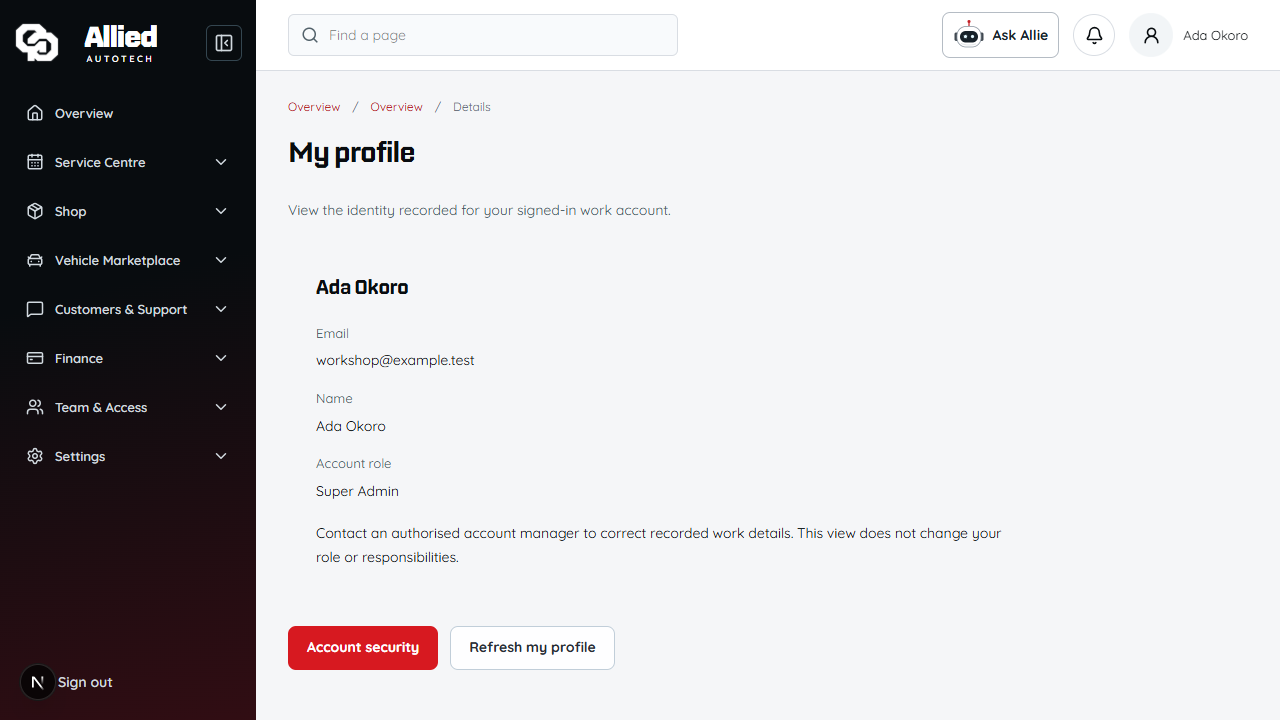
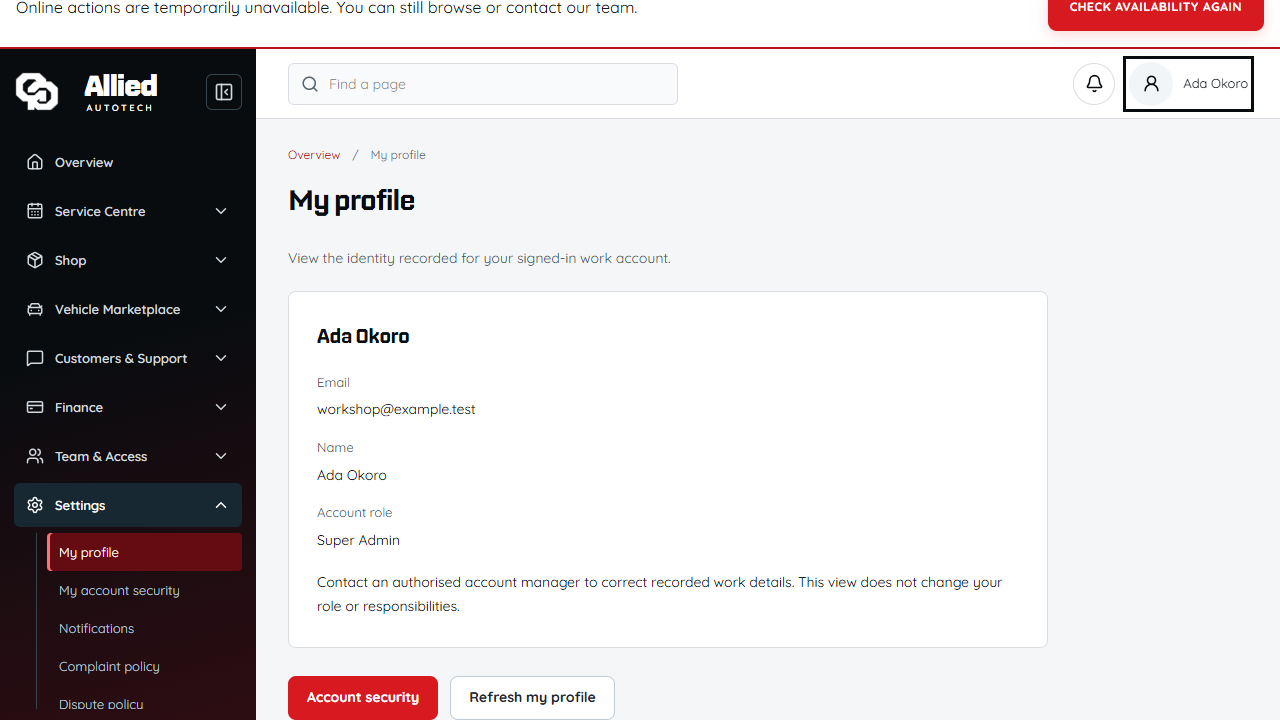
fix: retain own-profile guidance in authorised Allie retrieval

diff --git a/backend/src/modules/learning/allie.retrieval.ts b/backend/src/modules/learning/allie.retrieval.ts
@@ -30,6 +30,7 @@ const destinations = new Set([
   "/admin/workforce/access",
   "/admin/staff",
   "/admin/customers",
+  "/admin/profile",
   "/admin/security",
   "/admin/support",
   "/admin/service-categories",

diff --git a/frontend/docs/CONSOLIDATED_AUDIT_20261103.md b/frontend/docs/CONSOLIDATED_AUDIT_20261103.md
@@ -89,4 +89,16 @@ All captures below use isolated fixtures. Mobile labels are CSS viewport dimensi
 | search       | [Desktop](evidence/consolidated-audit-20261103/search-1280x720.png)       | [Phone](evidence/consolidated-audit-20261103/search-320x720.png)       |
 | work-profile | [Desktop](evidence/consolidated-audit-20261103/work-profile-1280x720.png) | [Phone](evidence/consolidated-audit-20261103/work-profile-320x720.png) |
 
-Visual review follow-up: register My profile in legacy Settings as well as managed navigation, removing the generic Overview/Overview/Details breadcrumb, and retain a white reading surface on its new profile card. The local work-profile captures precede this final correction; replace them with verified candidate captures before publication.
+Final profile refinement is verified on protected hosted preview `dpl_Berpr5K7VFgJFqnZ9hh7UwET9sdH` (source `68c37ea8`, exact-lock Next 16.4.3): **14/14** cases, all seven sizes in Edge and Chrome. The genuine My profile breadcrumb, white card, profile refresh, own-account destination, keyboard recovery, measured viewport, overflow and absence of API writes/page errors passed. The two work-profile images above are replaced with visually reviewed hosted captures. They still use isolated role records, not actual account acceptance. Preview server availability was unavailable in one desktop capture; this is not accepted production-backend availability.
+
+### Integrated release checkpoint
+
+PR #12 contains the signed audit implementation and preserved master purchase changes. Integrated TypeScript, scoped lint and formatting pass; focused learning/registry units pass 62/62, and search/profile/order units pass 30/30. Preview build succeeded using the exact locked Next 16.4.3. No production promotion is asserted.
+
+GitHub backend run 41692070146 passed migration replay, db:check, compiler/lint and isolated operational suites, then failed three retrieval-coverage cases because the new profile article destination was absent from Allie's strict server allowlist. The specific `/admin/profile` target is added; no arbitrary destinations or audience permissions are permitted. The corrective source requires a fresh exact-source run. The frontend run 41692070284 passed full production checks; its final runtime regressions were still running at this checkpoint. The secret guard passed.
+
+Hosted-test command: `vercel env run --project prj_LbuHFZ0EY8fBQL2pcOP1L3YHK2cb --scope team_uLFNuPMclr4G31M2Aaeopjxu -- node C:/Users/PC/Desktop/allied-autotech/frontend/node_modules/@playwright/test/cli.js test --config C:/Users/PC/AppData/Local/Temp/allied-audit-hosted-profile-harness/allied-audit-hosted-profile.config.cjs`. Authentication remains short-lived in memory and origin-scoped; no token or authentication file was saved. The first config used the entire Temp folder and failed with `EPERM: operation not permitted, scandir C:\Users\PC\AppData\Local\Temp\WinSAT`; moving only the two harness files into a dedicated small directory fixed test discovery.
+
+The first local server-retrieval rerun stopped at a missing ignored generated Prisma client before running any tests. Dependencies were reused; generating the client from the committed schema uses an unreachable loopback unit-test target and performs no migration. Actual production backend remains ACTIVE deployment `adc7be72-e564-4fc7-b1db-5f1c0f8d4cf2`, independently inspected through the provider. No pending deployment was returned. The concurrent purchase release and migration/restore prerequisites remain outside any claimed publication.
+
+Corrective local acceptance: generated client 7.10.0 from the committed schema; all three server learning/retrieval files pass **27/27**, including the previously failed work-profile cases. Scoped backend lint passes. No database connection, provider request or migration was made. Master changed-offer source `88ed8694` is preserved by signed merge `10b734db`; both conflicting tracker additions were retained.
